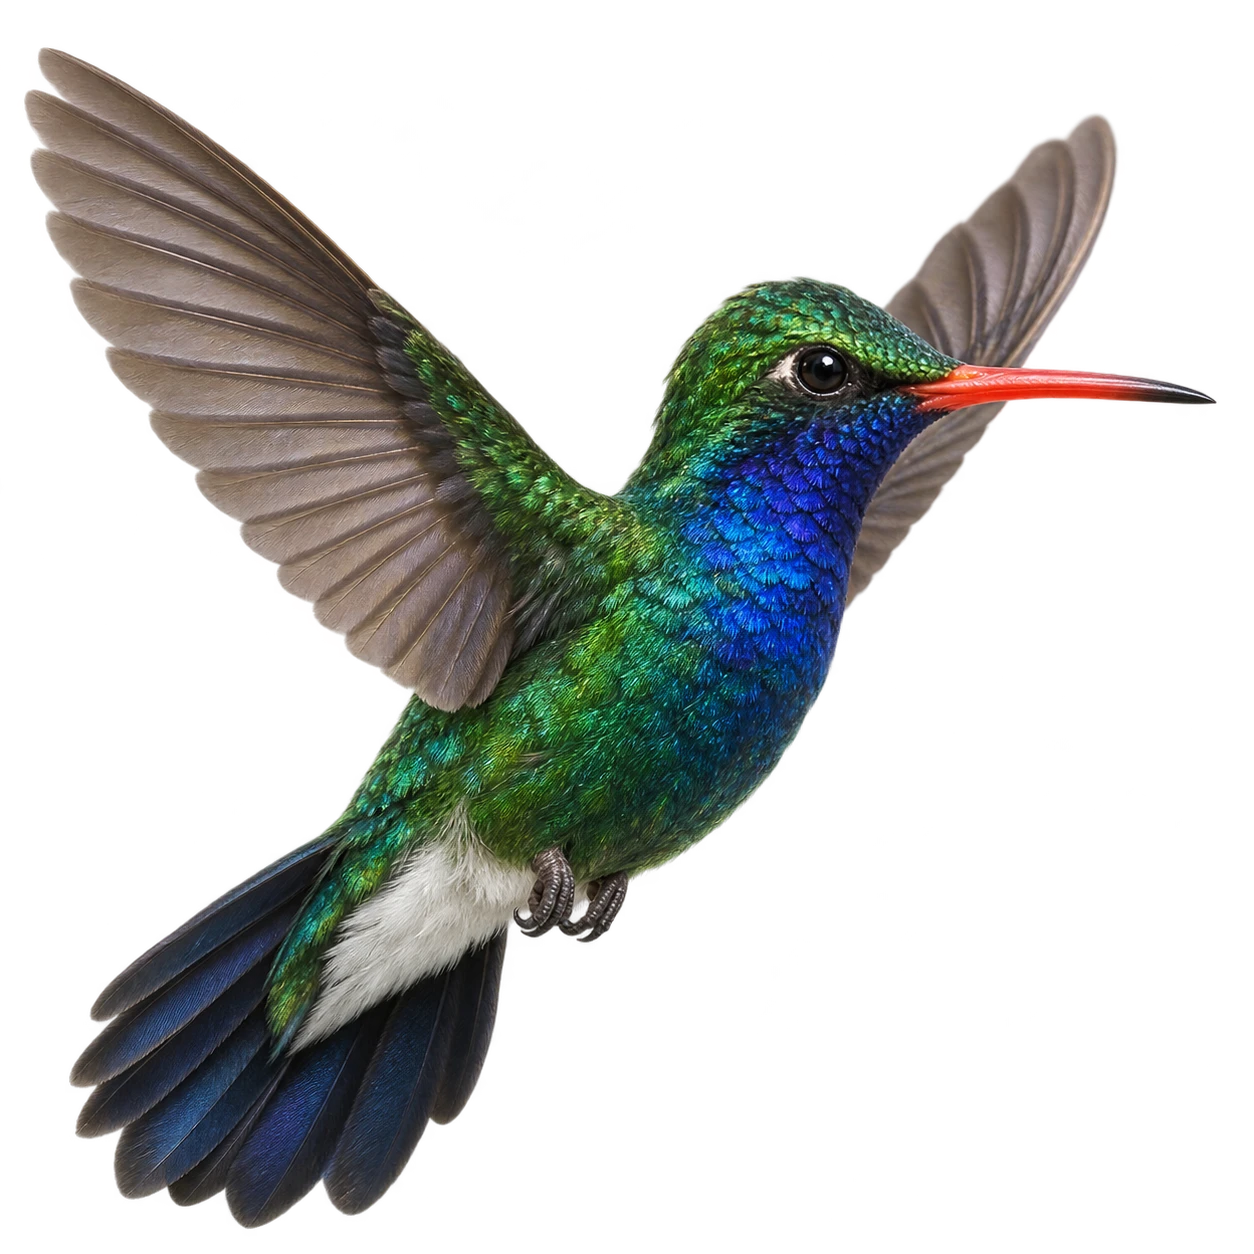
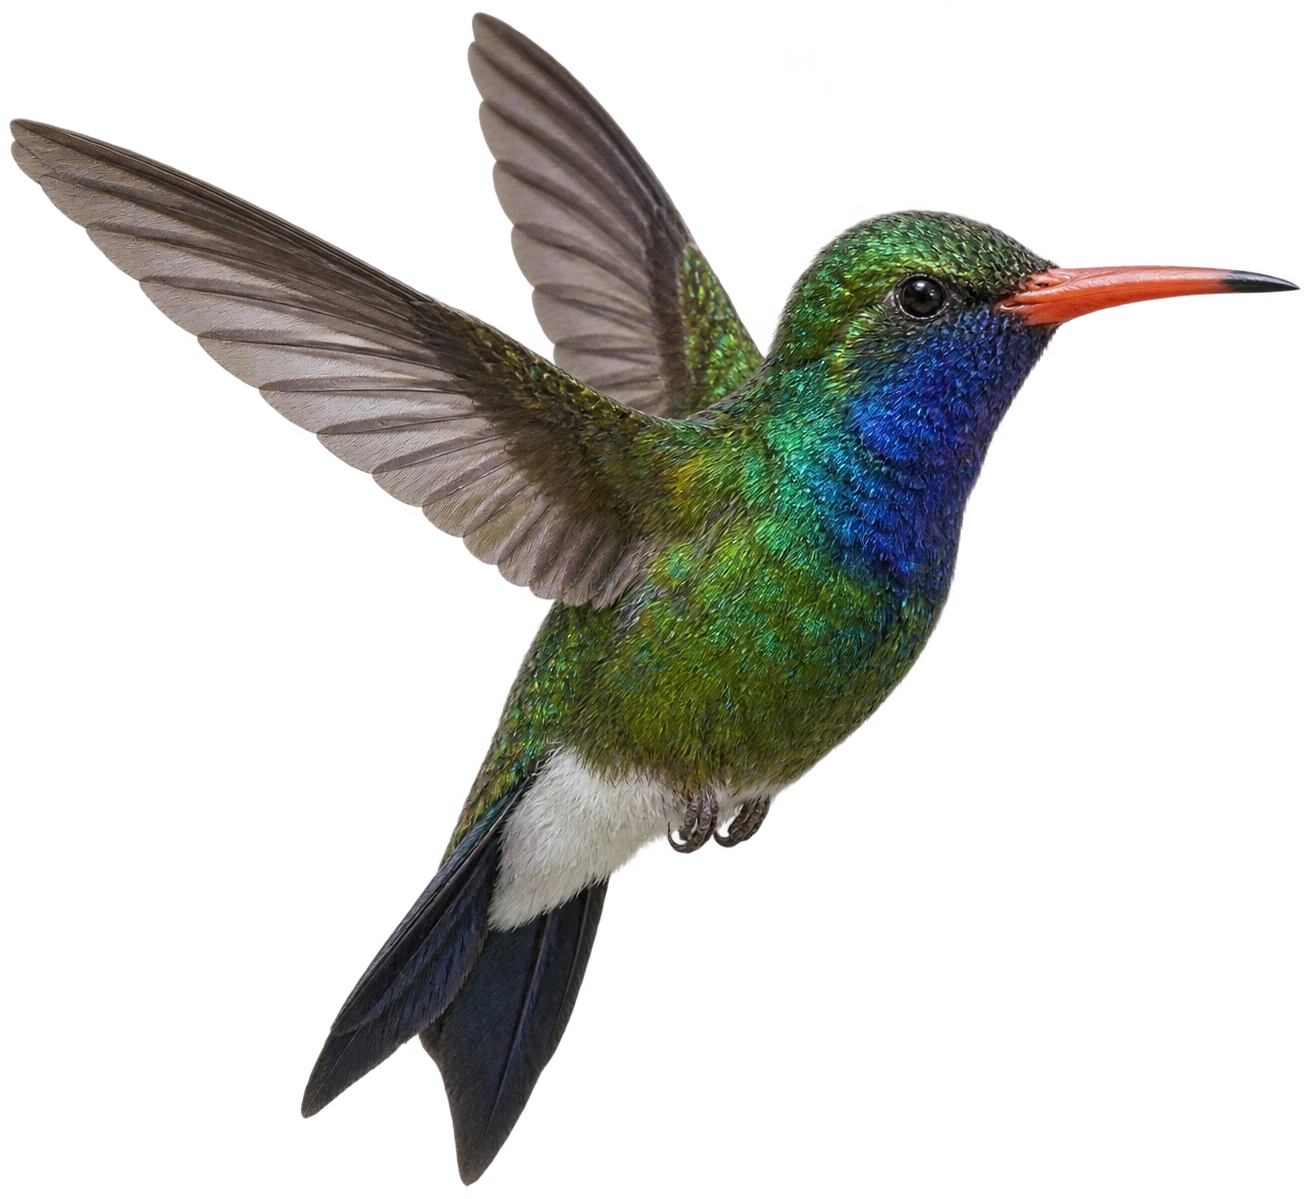
Use the new sunangel and broad-billed images
Replace sunangel.webp and broad-billed.webp by two of the six new images (Tourmaline
Sunangel in Flight-5 and Hovering Emerald Hummingbird-6). build_species_palettes.py now
has sampling boxes per image; the sunangel wing, tail and bill and all broad-billed colors
are resampled. The sapphire, starfrontlet and ruby-topaz images are unchanged.

Claude-Session: https://claude.ai/code/session_013tC2zfQKqzrUWhm3REboZc

diff --git a/examples/build_species_palettes.py b/examples/build_species_palettes.py
@@ -3,8 +3,8 @@
 Colombian species: crown, gorget, belly, mantle and rump are the measured reflectance spectra (the angle of maximum
 reflectance, males) converted to sRGB by colombia_spectra.py; wing, tail and bill, which the database does not
 measure, are sampled from the image.  The broad-billed hummingbird is not in the database, so all of its colors are
-sampled from its image.  Prints the dicts used in rhdt_mpl/palettes.py, and the distance (OKLab x 100) between the
-image and the measurement for every measured patch.
+sampled from its image.  Prints the dicts used in rhdt_mpl/palettes.py, and for every measured patch the distance
+(OKLab x 100) between the image and the measurement, where the image has a box for that patch.
 
     python examples/build_species_palettes.py DATA_DIR       # DATA_DIR holds refcolC.txt
 """
@@ -19,34 +19,38 @@ import colombia_spectra as cs                  # noqa: E402
 from rhdt_mpl import oklab as ok               # noqa: E402
 
 IMAGES = os.path.join(os.path.dirname(os.path.dirname(os.path.abspath(__file__))), "docs", "birds")
-# sampling boxes (x0, y0, x1, y1) in the 1254 x 1254 images, which share one pose
-BOX = {"crown": (690, 285, 780, 325), "gorget": (700, 490, 800, 610), "belly": (560, 730, 730, 800),
-       "mantle": (390, 610, 500, 690), "rump": (300, 800, 380, 900), "wing": (110, 200, 300, 380),
-       "tail": (140, 1020, 380, 1150), "bill": (1040, 368, 1140, 398), "body": (440, 700, 600, 800),
-       "vent": (420, 870, 500, 950)}
-BILL_BASE = (940, 368, 1040, 405)                # the broad-billed's bill is orange-red at the base
-VIVID = ("crown", "gorget")                       # iridescent patches: the more saturated half of the pixels
-# key -> (image file, species in the database or None, palette parts: name -> "spectrum" | "image:<box>")
+# sampling boxes (x0, y0, x1, y1), image coordinates; each image has its own because the birds are posed differently
+_POSE_A = {"crown": (690, 285, 780, 325), "gorget": (700, 490, 800, 610), "belly": (560, 730, 730, 800),
+           "mantle": (390, 610, 500, 690), "rump": (300, 800, 380, 900), "wing": (110, 200, 300, 380),
+           "tail": (140, 1020, 380, 1150), "bill": (1040, 368, 1140, 398)}
+# species -> (image, species in the database or None, boxes)
 SPECIES = {
-    "sunangel": ("sunangel.webp", "Heliangelus_exortis"),
-    "ruby-topaz": ("ruby-topaz.webp", "Chrysolampis_mosquitus"),
-    "starfrontlet": ("starfrontlet.webp", "Coeligena_bonapartei"),
-    "sapphire": ("sapphire.webp", "Chrysuronia_oenone"),
+    "sunangel": ("sunangel.webp", "Heliangelus_exortis",
+                 {"crown": (890, 160, 1000, 195), "gorget": (870, 290, 980, 380), "wing": (200, 250, 380, 350),
+                  "tail": (505, 920, 555, 1060), "bill": (1050, 215, 1130, 226)}),
+    "ruby-topaz": ("ruby-topaz.webp", "Chrysolampis_mosquitus", _POSE_A),
+    "starfrontlet": ("starfrontlet.webp", "Coeligena_bonapartei", _POSE_A),
+    "sapphire": ("sapphire.webp", "Chrysuronia_oenone", _POSE_A),
+    "broad-billed": ("broad-billed.webp", None,
+                     {"crown": (830, 232, 930, 256), "gorget": (870, 350, 950, 430), "belly": (700, 560, 820, 640),
+                      "rump": (500, 690, 560, 740), "vent": (510, 800, 590, 870), "wing": (330, 340, 430, 400),
+                      "tail": (400, 1000, 470, 1100), "bill": (1020, 278, 1110, 300)}),
 }
-SPECIES["broad-billed"] = ("broad-billed.webp", None)         # last: it changes the bill box
+VIVID = ("crown", "gorget")                       # iridescent patches: the more saturated half of the pixels
 MEASURED = ("gorget", "crown", "belly", "mantle", "rump")
 UNMEASURED = ("wing", "tail", "bill")
+FROM_IMAGE = ("gorget", "crown", "belly", "rump", "vent", "wing", "tail", "bill")      # the broad-billed palette
 
 
 def _hex(c):
     return "#%02x%02x%02x" % tuple(np.round(np.clip(c, 0, 1) * 255).astype(int))
 
 
-def sample(img, name):
-    x0, y0, x1, y1 = BOX[name]
+def sample(img, box, vivid=False):
+    x0, y0, x1, y1 = box
     a = img[y0:y1, x0:x1].reshape(-1, 4)
     a = a[a[:, 3] > 0.95][:, :3]
-    if name in VIVID:
+    if vivid:
         a = a[::2]
         chroma = np.array([ok.to_oklch(tuple(p))[1] for p in a])
         a = a[chroma >= np.quantile(chroma, 0.5)]
@@ -60,18 +64,16 @@ def dist(a, b):
 def build(data_dir):
     meta, spec = cs.load(os.path.join(data_dir, "refcolC.txt"))
     out = {}
-    for key, (fn, sp) in SPECIES.items():
+    for key, (fn, sp, box) in SPECIES.items():
         img = np.asarray(Image.open(os.path.join(IMAGES, fn)).convert("RGBA")).astype(float) / 255
+        s = {p: sample(img, b, p in VIVID) for p, b in box.items()}
         if sp:
             measured = cs.patch_colors(meta, spec, sp, "Males")
             pal = {p: measured[p] for p in MEASURED}
-            pal.update({p: sample(img, p) for p in UNMEASURED})
-            diffs = {p: round(dist(sample(img, p), measured[p])) for p in MEASURED}
+            pal.update({p: s[p] for p in UNMEASURED})
+            diffs = {p: round(dist(s[p], measured[p])) for p in MEASURED if p in s}
         else:
-            BOX["bill"] = BILL_BASE
-            pal = {"gorget": sample(img, "gorget"), "crown": sample(img, "crown"), "belly": sample(img, "body"),
-                   "rump": sample(img, "rump"), "vent": sample(img, "vent"), "wing": sample(img, "wing"),
-                   "tail": sample(img, "tail"), "bill": sample(img, "bill")}
+            pal = {p: s[p] for p in FROM_IMAGE}
             diffs = None
         out[key] = (pal, diffs)
     return out

diff --git a/src/rhdt_mpl/palettes.py b/src/rhdt_mpl/palettes.py
@@ -32,11 +32,11 @@ PALETTES = {
     # belly, mantle and rump are measured reflectance spectra (Beltran, Shultz & Parra, Dryad doi:10.5061/dryad.02v6wwq8w) and
     # wing, tail and bill are sampled from the reference images; the broad-billed hummingbird is not in that database, so all
     # of its colors are sampled from its image.  See examples/build_species_palettes.py.
-    "sunangel": {"gorget": "#e444b6", "crown": "#30721e", "belly": "#413f23", "mantle": "#3e5509", "rump": "#433d12", "wing": "#826b5a", "tail": "#43362d", "bill": "#5d5f6c"},
+    "sunangel": {"gorget": "#e444b6", "crown": "#30721e", "belly": "#413f23", "mantle": "#3e5509", "rump": "#433d12", "wing": "#a9978f", "tail": "#27261e", "bill": "#545868"},
     "ruby-topaz": {"gorget": "#ff8a1b", "crown": "#ba0040", "belly": "#554236", "mantle": "#2e1d09", "rump": "#462f1d", "wing": "#82685a", "tail": "#3d1b17", "bill": "#4b4954"},
     "starfrontlet": {"gorget": "#6842e7", "crown": "#00d645", "belly": "#b36916", "mantle": "#4f5436", "rump": "#c76313", "wing": "#806a60", "tail": "#4b3b36", "bill": "#47475b"},
     "sapphire": {"gorget": "#0043be", "crown": "#0043d6", "belly": "#4d661f", "mantle": "#446817", "rump": "#96451e", "wing": "#876f61", "tail": "#8f4316", "bill": "#393c4c"},
-    "broad-billed": {"gorget": "#094ac5", "crown": "#518953", "belly": "#295422", "rump": "#264831", "vent": "#b3afa4", "wing": "#816d5e", "tail": "#1c2535", "bill": "#ea573e"},
+    "broad-billed": {"gorget": "#183488", "crown": "#588f56", "belly": "#3b5f22", "rump": "#495830", "vent": "#a8a5a0", "wing": "#8c7e79", "tail": "#2c2d31", "bill": "#d56b51"},
     "ok8": {"navy": "#2a5b88", "gold": "#d6ab1b", "rust": "#8e3b1c",
             "violet": "#a936fb", "mint": "#4fbc90", "pink": "#f87fd8",
             "teal": "#228a8f", "coral": "#d0603d"},
